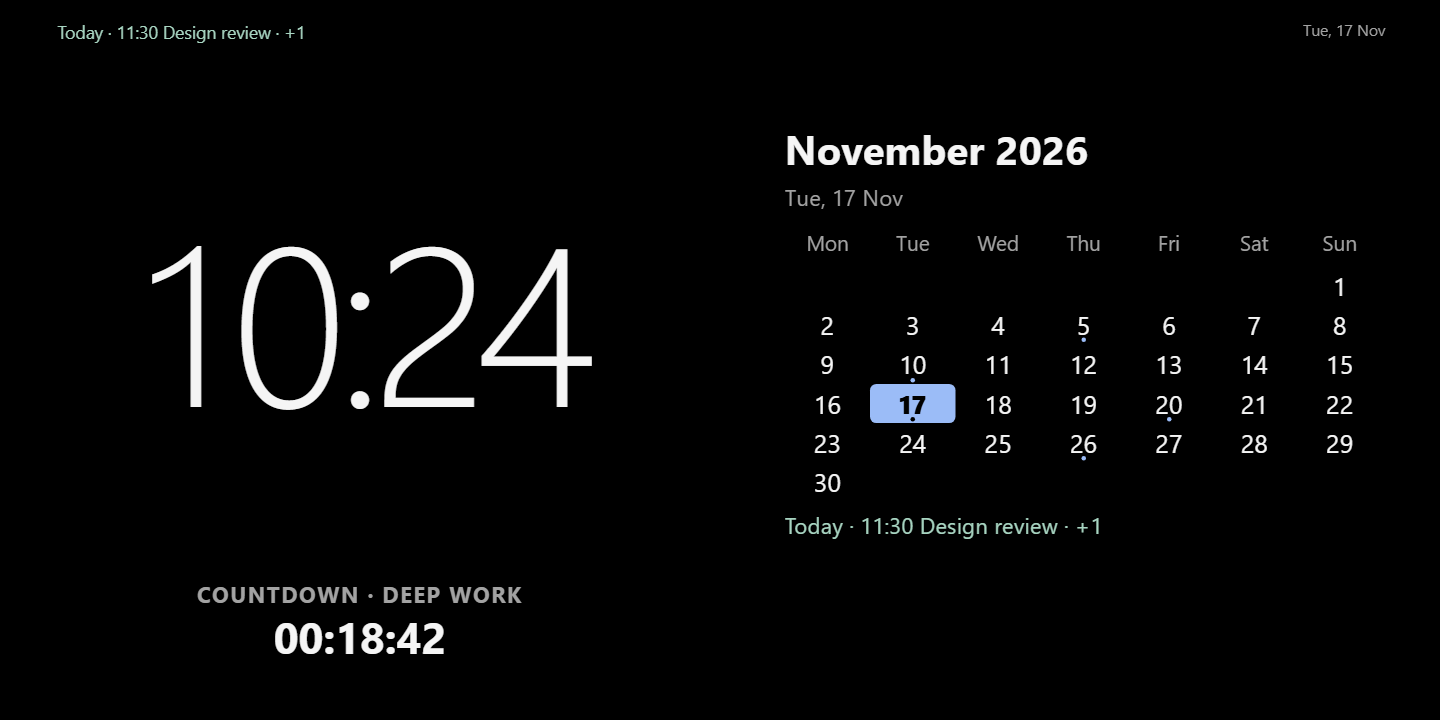
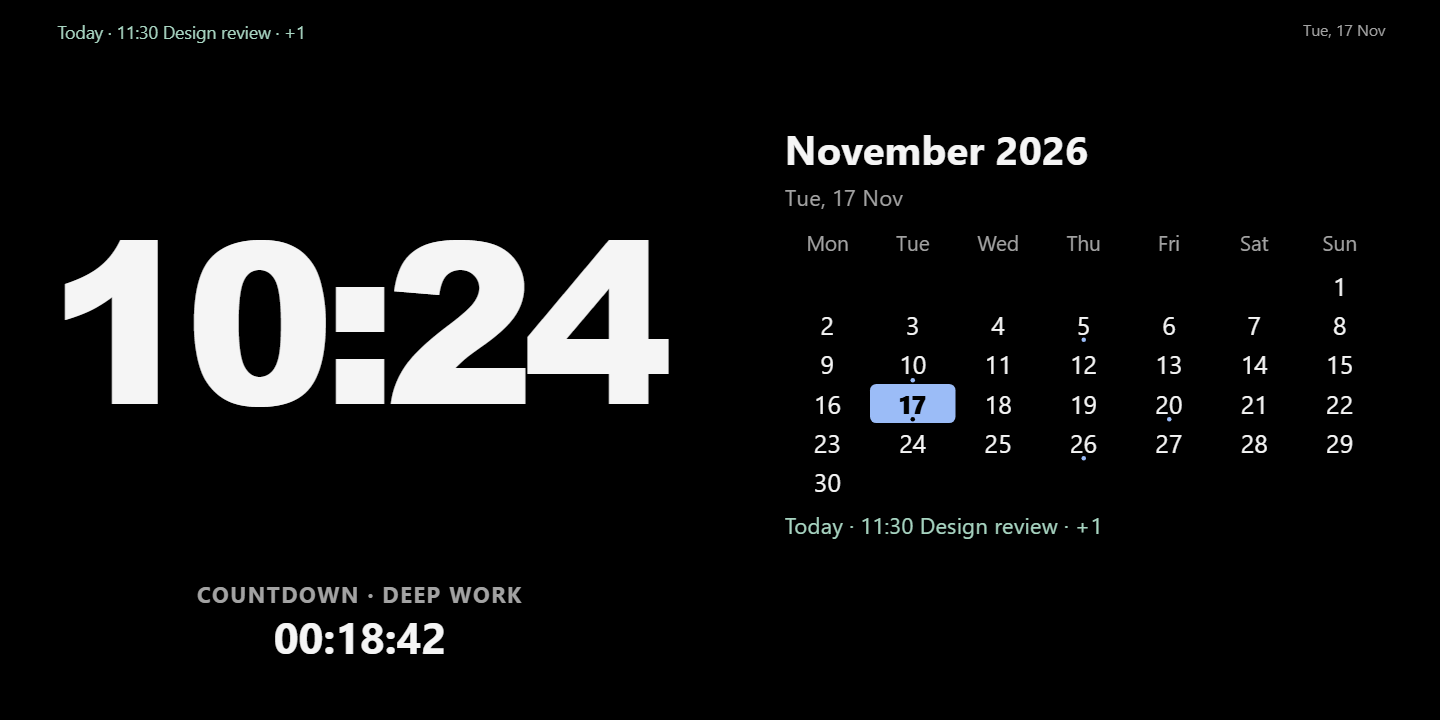
Updated Readme FIle

Changed region(s): [[0.0312, 0.3361, 0.4688, 0.5806]]

diff --git a/README.md b/README.md
@@ -15,15 +15,15 @@
 
 ## AMOLED Minimal
 
-![AMOLED Minimal Standby dashboard with a slim digital clock, 18-minute countdown, and November calendar with marked event days.](docs/screenshots/standby-amoled.png)
+![AMOLED Minimal Standby dashboard with the Modern Digital clock face, an 18-minute countdown, and November calendar with marked event days.](docs/screenshots/standby-amoled.png)
 
-True black, a slim clock face, and a month at a glance.
+True black, the Modern Digital clock face, and a month at a glance.
 
 ## Dark Fantasy RPG
 
-![Dark Fantasy RPG Standby dashboard with a large serif clock, compact countdown, and Studio Projects at 50 percent completion.](docs/screenshots/standby-rpg.png)
+![Dark Fantasy RPG Standby dashboard with the Fantasy Pixel clock face, a compact countdown, and Studio Projects at 50 percent completion.](docs/screenshots/standby-rpg.png)
 
-Bronze framing and an active quest list with its own progress bar.
+Bronze framing, the Fantasy Pixel clock face, and an active quest list with its own progress bar.
 
 ## Features
 
